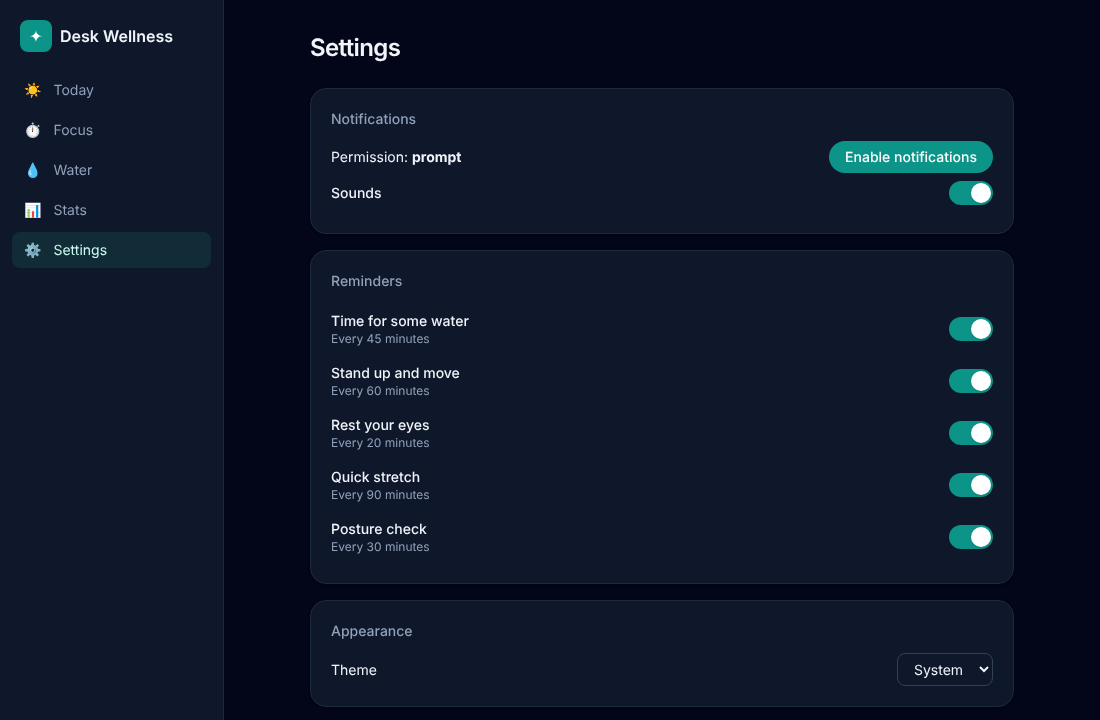
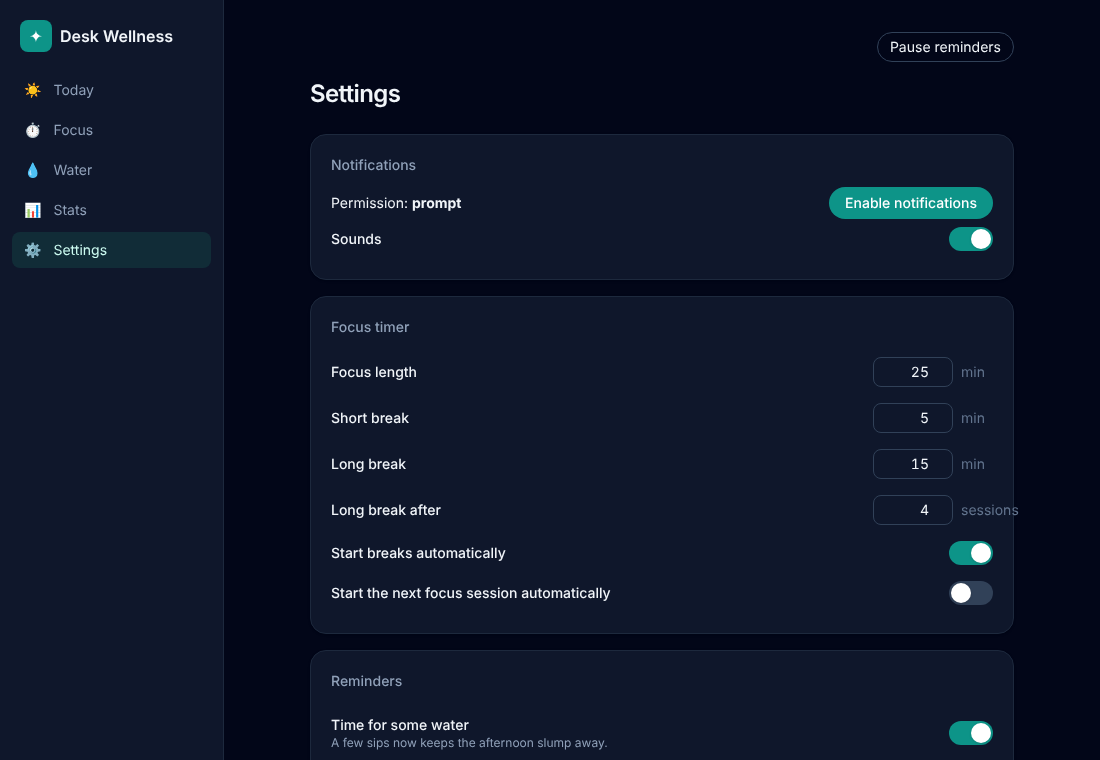
Harden the PWA, add accessibility touches and finish the v1 README (M6)
- Service worker update toast with a Reload action; install banner driven by
  beforeinstallprompt; persistent storage requested on first run; app badge
  shows the number of pending reminders
- Accessibility: skip-to-content link, focusable main landmark, visible focus
  rings on navigation and toggles, reduced-motion support for the progress
  ring, keyboard shortcuts on the timer (Space / S / Esc) with on-page hints
- Playwright: keyboard-shortcut and landmark tests; timer assertions allow for
  heartbeat timing when tests run in parallel
- README rewritten for the feature-complete v1 with refreshed screenshots

Claude-Session: https://claude.ai/code/session_01Korwh4YumG33SjHKrEveXE

diff --git a/src/app/AppLayout.tsx b/src/app/AppLayout.tsx
@@ -1,6 +1,7 @@
 import { NavLink, Outlet } from 'react-router-dom';
 import { PauseMenu } from '@/features/reminders/PauseMenu';
 import { ReminderCard } from '@/features/reminders/ReminderCard';
+import { UpdateToast } from '@/features/pwa/UpdateToast';
 
 const NAV = [
   { to: '/', label: 'Today', icon: '☀' },
@@ -13,6 +14,12 @@ const NAV = [
 export function AppLayout() {
   return (
     <div className="flex h-full flex-col md:flex-row">
+      <a
+        href="#main"
+        className="sr-only focus:not-sr-only focus:absolute focus:top-2 focus:left-2 focus:z-50 focus:rounded-lg focus:bg-brand-600 focus:px-3 focus:py-2 focus:text-white"
+      >
+        Skip to content
+      </a>
       <nav
         aria-label="Primary"
         className="order-last flex shrink-0 border-t border-slate-200 bg-white md:order-first md:w-56 md:flex-col md:border-r md:border-t-0 dark:border-slate-800 dark:bg-slate-900"
@@ -31,7 +38,7 @@ export function AppLayout() {
                 end={item.to === '/'}
                 className={({ isActive }) =>
                   [
-                    'flex flex-col items-center gap-0.5 px-2 py-2 text-xs md:flex-row md:gap-3 md:rounded-lg md:px-3 md:py-2 md:text-sm',
+                    'flex flex-col items-center gap-0.5 rounded-lg px-2 py-2 text-xs focus:outline-none focus-visible:ring-2 focus-visible:ring-brand-500 md:flex-row md:gap-3 md:px-3 md:py-2 md:text-sm',
                     isActive
                       ? 'text-brand-700 md:bg-brand-50 dark:text-brand-100 md:dark:bg-brand-900/40'
                       : 'text-slate-500 hover:text-slate-900 dark:text-slate-400 dark:hover:text-slate-100',
@@ -45,7 +52,7 @@ export function AppLayout() {
           ))}
         </ul>
       </nav>
-      <main className="min-h-0 flex-1 overflow-y-auto">
+      <main id="main" tabIndex={-1} className="min-h-0 flex-1 overflow-y-auto focus:outline-none">
         <div className="mx-auto w-full max-w-3xl px-4 py-6 md:px-8 md:py-8">
           <div className="mb-4 flex justify-end">
             <PauseMenu />
@@ -54,6 +61,7 @@ export function AppLayout() {
         </div>
       </main>
       <ReminderCard />
+      <UpdateToast />
     </div>
   );
 }

diff --git a/src/app/registerSw.ts b/src/app/registerSw.ts
@@ -1,9 +1,45 @@
 import { isTauri } from '@/platform';
+import { useAppStore } from '@/store/appStore';
 
-/** Registers the PWA service worker in production browser builds only. */
+interface BeforeInstallPromptEvent extends Event {
+  prompt(): Promise<void>;
+  userChoice: Promise<{ outcome: 'accepted' | 'dismissed' }>;
+}
+
+/**
+ * Browser-only setup: registers the service worker (production builds), asks for
+ * persistent storage so IndexedDB is not evicted, and captures the install prompt.
+ */
 export function registerServiceWorker(): void {
-  if (isTauri() || !import.meta.env.PROD || !('serviceWorker' in navigator)) return;
+  if (isTauri() || typeof window === 'undefined') return;
+
+  window.addEventListener('beforeinstallprompt', (e) => {
+    e.preventDefault();
+    const event = e as BeforeInstallPromptEvent;
+    useAppStore.getState().setInstallPrompt(async () => {
+      await event.prompt();
+      const { outcome } = await event.userChoice;
+      useAppStore.getState().setInstallPrompt(null);
+      return outcome === 'accepted';
+    });
+  });
+  window.addEventListener('appinstalled', () => useAppStore.getState().setInstallPrompt(null));
+
+  if (navigator.storage?.persist) {
+    navigator.storage.persisted().then((already) => {
+      if (!already) navigator.storage.persist().catch(() => {});
+    });
+  }
+
+  if (!import.meta.env.PROD || !('serviceWorker' in navigator)) return;
   import('virtual:pwa-register')
-    .then(({ registerSW }) => registerSW({ immediate: true }))
+    .then(({ registerSW }) => {
+      const update = registerSW({
+        immediate: true,
+        onNeedRefresh() {
+          useAppStore.getState().setUpdate(() => update(true));
+        },
+      });
+    })
     .catch(() => {});
 }

diff --git a/src/features/timer/TimerPage.tsx b/src/features/timer/TimerPage.tsx
@@ -1,3 +1,4 @@
+import { useEffect } from 'react';
 import { Button } from '@/components/Button';
 import { Card } from '@/components/Card';
 import { PageHeader } from '@/components/PageHeader';
@@ -16,6 +17,40 @@ export function TimerPage() {
 
   const phase = currentPhase(state);
   const inPhase = state.status === 'running' || state.status === 'paused';
+
+  // Keyboard: Space starts/pauses/resumes, S skips, Escape stops.
+  useEffect(() => {
+    const onKey = (e: KeyboardEvent) => {
+      const target = e.target as HTMLElement | null;
+      if (
+        target &&
+        (target.tagName === 'INPUT' ||
+          target.tagName === 'SELECT' ||
+          target.tagName === 'TEXTAREA' ||
+          target.isContentEditable)
+      )
+        return;
+      const s = useTimerStore.getState();
+      if (e.key === ' ') {
+        e.preventDefault();
+        if (s.state.status === 'running') s.pause();
+        else if (s.state.status === 'paused') s.resume();
+        else s.start(s.state.status === 'awaitingNext' ? undefined : 'focus');
+      } else if (
+        e.key.toLowerCase() === 's' &&
+        (s.state.status === 'running' || s.state.status === 'paused')
+      ) {
+        s.skip();
+      } else if (
+        e.key === 'Escape' &&
+        (s.state.status === 'running' || s.state.status === 'paused')
+      ) {
+        s.reset();
+      }
+    };
+    window.addEventListener('keydown', onKey);
+    return () => window.removeEventListener('keydown', onKey);
+  }, []);
   const remaining = inPhase
     ? remainingMs(state, now)
     : (phase === 'focus'

diff --git a/src/features/pwa/InstallBanner.tsx b/src/features/pwa/InstallBanner.tsx
@@ -1,0 +1,44 @@
+import { useState } from 'react';
+import { Button } from '@/components/Button';
+import { useAppStore } from '@/store/appStore';
+
+const DISMISS_KEY = 'deskwellness.installBannerDismissed';
+
+/** Offers to install the web app when the browser says it is installable. */
+export function InstallBanner() {
+  const prompt = useAppStore((s) => s.installPrompt);
+  const [dismissed, setDismissed] = useState(() => {
+    try {
+      return localStorage.getItem(DISMISS_KEY) === '1';
+    } catch {
+      return false;
+    }
+  });
+  if (!prompt || dismissed) return null;
+
+  const dismiss = () => {
+    setDismissed(true);
+    try {
+      localStorage.setItem(DISMISS_KEY, '1');
+    } catch {
+      /* ignore */
+    }
+  };
+
+  return (
+    <div className="mb-6 flex flex-col gap-3 rounded-2xl border border-brand-200 bg-brand-50 p-4 text-sm sm:flex-row sm:items-center sm:justify-between dark:border-brand-900 dark:bg-brand-900/30">
+      <div>
+        <p className="font-medium">Install Desk Wellness</p>
+        <p className="text-slate-600 dark:text-slate-300">
+          Runs in its own window, keeps your data persistent, and shows up in your app list.
+        </p>
+      </div>
+      <div className="flex shrink-0 gap-2">
+        <Button onClick={() => void prompt()}>Install</Button>
+        <Button variant="ghost" onClick={dismiss}>
+          Not now
+        </Button>
+      </div>
+    </div>
+  );
+}

diff --git a/e2e/a11y.spec.ts b/e2e/a11y.spec.ts
@@ -1,0 +1,23 @@
+import { expect, test } from '@playwright/test';
+
+test('keyboard shortcuts drive the timer', async ({ page }) => {
+  await page.goto('/#/timer');
+  await page.getByRole('heading', { name: 'Focus timer' }).click();
+  await page.keyboard.press('Space');
+  await expect(page.getByRole('button', { name: 'Pause', exact: true })).toBeVisible();
+  await page.keyboard.press('Space');
+  await expect(page.getByRole('button', { name: 'Resume' })).toBeVisible();
+  await page.keyboard.press('Escape');
+  await expect(page.getByRole('button', { name: 'Start focus' })).toBeVisible();
+});
+
+test('skip link, landmarks and current-page navigation are present', async ({ page }) => {
+  await page.goto('/#/water');
+  await expect(page.getByRole('heading', { name: 'Water', exact: true })).toBeVisible();
+  await page.keyboard.press('Tab');
+  await expect(page.getByRole('link', { name: 'Skip to content' })).toBeFocused();
+  await expect(page.getByRole('main')).toBeVisible();
+  await expect(page.getByRole('navigation', { name: 'Primary' })).toBeVisible();
+  await expect(page.getByRole('link', { name: 'Water' })).toHaveAttribute('aria-current', 'page');
+  await expect(page.getByRole('progressbar', { name: 'Water goal progress' })).toBeVisible();
+});

diff --git a/e2e/timer.spec.ts b/e2e/timer.spec.ts
@@ -6,7 +6,7 @@ test('a focus session runs to completion and starts the break', async ({ page })
   await page.goto('/#/timer');
 
   await page.getByRole('button', { name: 'Start focus' }).click();
-  await expect(page.getByTestId('timer-clock')).toHaveText(/^24:5\d$/);
+  await expect(page.getByTestId('timer-clock')).toHaveText(/^24:5\d$/, { timeout: 15_000 });
   await expect(page.getByText('Session 1 of 4')).toBeVisible();
 
   await page.clock.fastForward(25 * 60_000 + 1_500);
@@ -28,7 +28,7 @@ test('a focus session runs to completion and starts the break', async ({ page })
 test('the running timer survives a reload', async ({ page }) => {
   await page.goto('/#/timer');
   await page.getByRole('button', { name: 'Start focus' }).click();
-  await expect(page.getByTestId('timer-clock')).toHaveText(/^24:5\d$/);
+  await expect(page.getByTestId('timer-clock')).toHaveText(/^24:5\d$/, { timeout: 15_000 });
   await page.reload();
   await expect(page.getByRole('button', { name: 'Pause', exact: true })).toBeVisible();
   await expect(page.getByTestId('timer-clock')).toHaveText(/^24:[45]\d$/);

diff --git a/src/features/pwa/UpdateToast.tsx b/src/features/pwa/UpdateToast.tsx
@@ -1,0 +1,20 @@
+import { Button } from '@/components/Button';
+import { useAppStore } from '@/store/appStore';
+
+/** Shown when a new version of the web app has been downloaded by the service worker. */
+export function UpdateToast() {
+  const ready = useAppStore((s) => s.updateReady);
+  const apply = useAppStore((s) => s.applyUpdate);
+  if (!ready || !apply) return null;
+  return (
+    <div
+      role="status"
+      className="fixed bottom-20 left-1/2 z-50 flex -translate-x-1/2 items-center gap-3 rounded-full border border-slate-200 bg-white px-4 py-2 text-sm shadow-lg md:bottom-6 dark:border-slate-700 dark:bg-slate-900"
+    >
+      <span>A new version is ready.</span>
+      <Button className="px-3 py-1 text-xs" onClick={() => void apply()}>
+        Reload
+      </Button>
+    </div>
+  );
+}

diff --git a/src/features/today/TodayPage.tsx b/src/features/today/TodayPage.tsx
@@ -5,6 +5,7 @@ import { useSettings } from '@/app/useSettings';
 import { REMINDER_KINDS } from '@/core/models';
 import { REMINDER_LABELS } from '@/core/settings/defaults';
 import { NotificationBanner } from '@/features/notifications/NotificationBanner';
+import { InstallBanner } from '@/features/pwa/InstallBanner';
 import { useTimerStore } from '@/store/timerStore';
 import { useReminderStore } from '@/store/reminderStore';
 import { useWaterToday } from '@/app/useWaterToday';
@@ -48,6 +49,7 @@ export function TodayPage() {
         }
       />
       <NotificationBanner />
+      <InstallBanner />
       <div className="grid gap-4 sm:grid-cols-2">
         <Card title="Focus">
           <p className="text-3xl font-semibold tabular-nums" data-testid="today-focus">

diff --git a/src/store/appStore.ts b/src/store/appStore.ts
@@ -1,0 +1,22 @@
+import { create } from 'zustand';
+
+/** Small UI-level state that doesn't belong to a feature: PWA update and install prompts. */
+interface AppStore {
+  updateReady: boolean;
+  applyUpdate: (() => Promise<void>) | null;
+  installPrompt: (() => Promise<boolean>) | null;
+  setUpdate(apply: () => Promise<void>): void;
+  setInstallPrompt(prompt: (() => Promise<boolean>) | null): void;
+}
+
+export const useAppStore = create<AppStore>((set) => ({
+  updateReady: false,
+  applyUpdate: null,
+  installPrompt: null,
+  setUpdate(apply) {
+    set({ updateReady: true, applyUpdate: apply });
+  },
+  setInstallPrompt(prompt) {
+    set({ installPrompt: prompt });
+  },
+}));

diff --git a/src/components/Toggle.tsx b/src/components/Toggle.tsx
@@ -23,7 +23,7 @@ export function Toggle({
         aria-checked={checked}
         aria-label={label}
         onClick={() => onChange(!checked)}
-        className={`relative h-6 w-11 shrink-0 rounded-full transition-colors ${
+        className={`relative h-6 w-11 shrink-0 rounded-full transition-colors focus:outline-none focus-visible:ring-2 focus-visible:ring-brand-500 focus-visible:ring-offset-2 dark:focus-visible:ring-offset-slate-900 ${
           checked ? 'bg-brand-600' : 'bg-slate-300 dark:bg-slate-700'
         }`}
       >

diff --git a/src/components/ProgressRing.tsx b/src/components/ProgressRing.tsx
@@ -46,7 +46,7 @@ export function ProgressRing({
           strokeLinecap="round"
           strokeDasharray={c}
           strokeDashoffset={c * (1 - clamped)}
-          className="stroke-brand-600 transition-[stroke-dashoffset] duration-500 ease-linear"
+          className="stroke-brand-600 transition-[stroke-dashoffset] duration-500 ease-linear motion-reduce:transition-none"
         />
       </svg>
       <div className="absolute inset-0 grid place-items-center">{children}</div>

diff --git a/src/app/HeartbeatProvider.tsx b/src/app/HeartbeatProvider.tsx
@@ -104,7 +104,12 @@ function TimerMirror() {
   const state = useTimerStore((s) => s.state);
   const now = useTimerStore((s) => s.now);
   const pausedUntil = useReminderStore((s) => s.scheduler.pausedUntil);
+  const activeCount = useReminderStore((s) => s.active?.kinds.length ?? 0);
   const last = useRef<string>('');
+
+  useEffect(() => {
+    platform.window.setBadge(activeCount);
+  }, [platform, activeCount]);
 
   useEffect(() => {
     let title = 'Desk Wellness';
